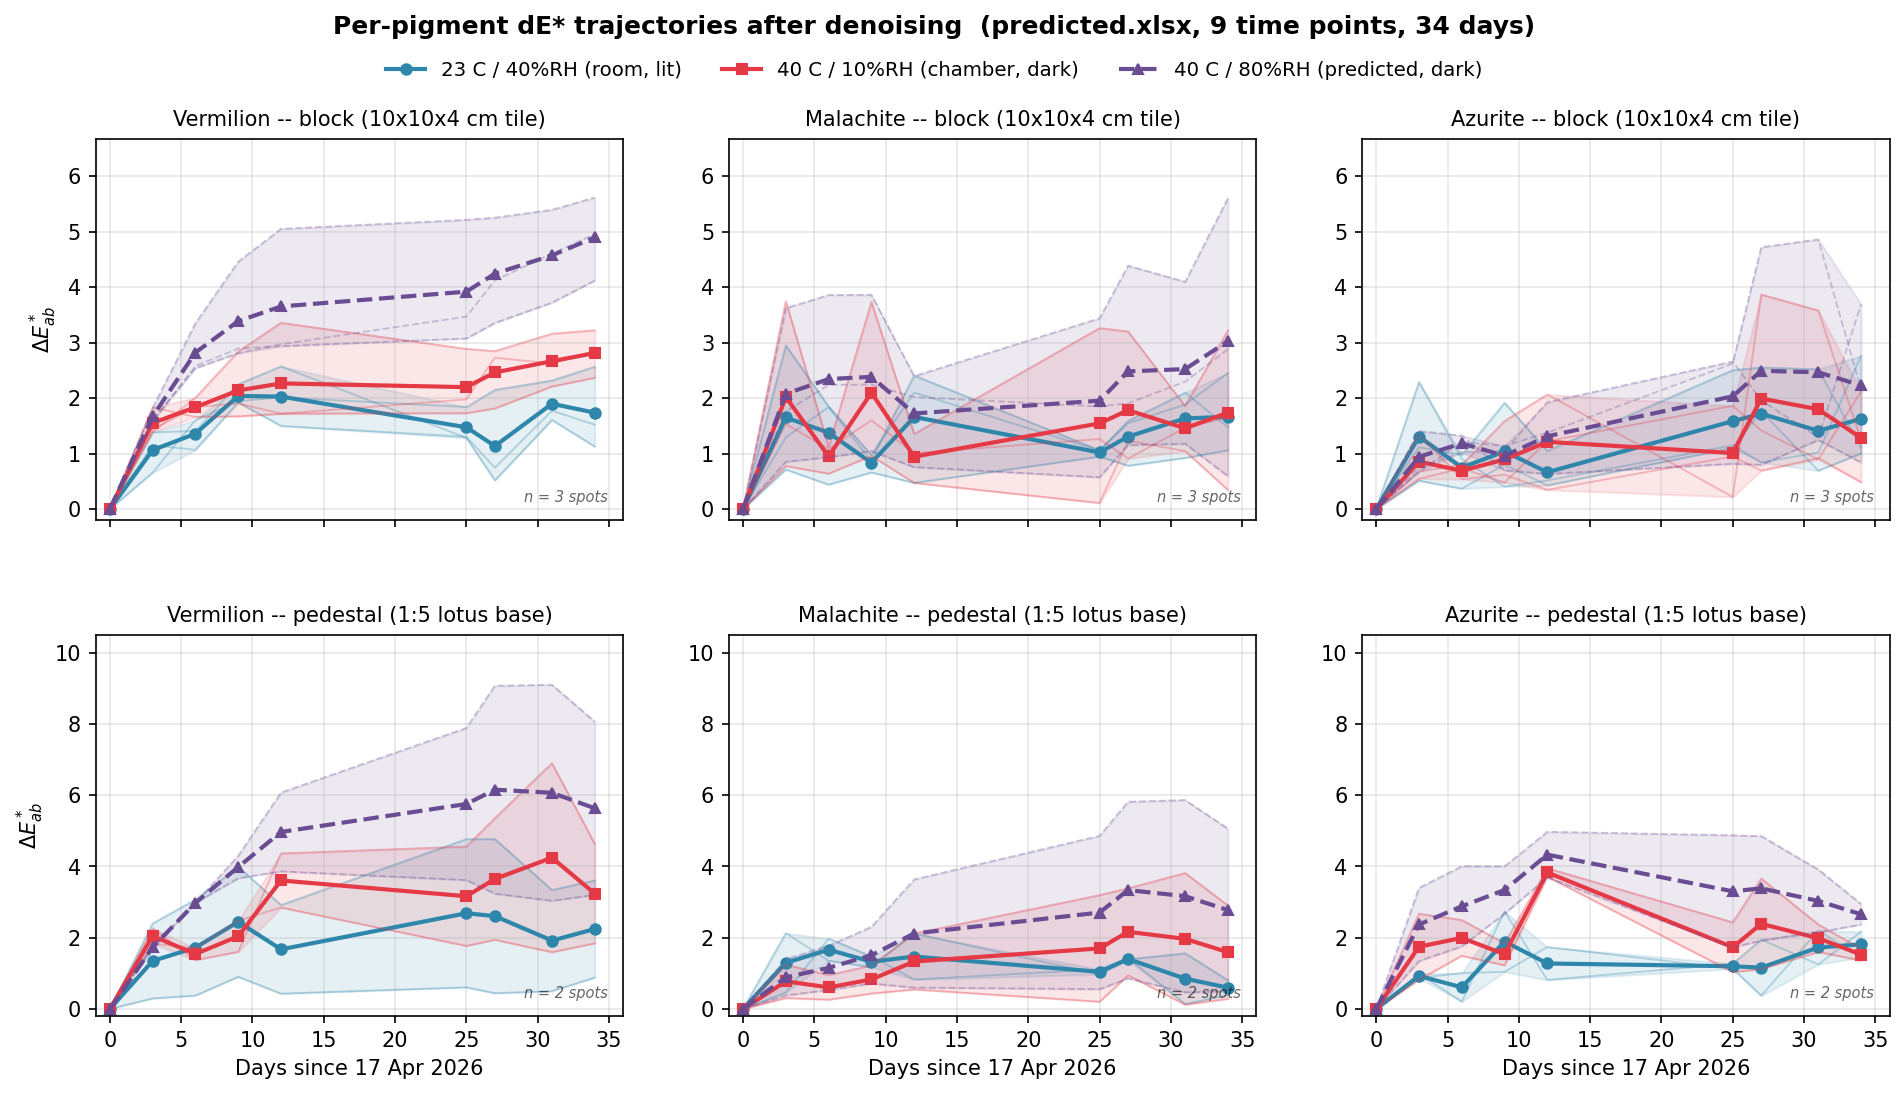
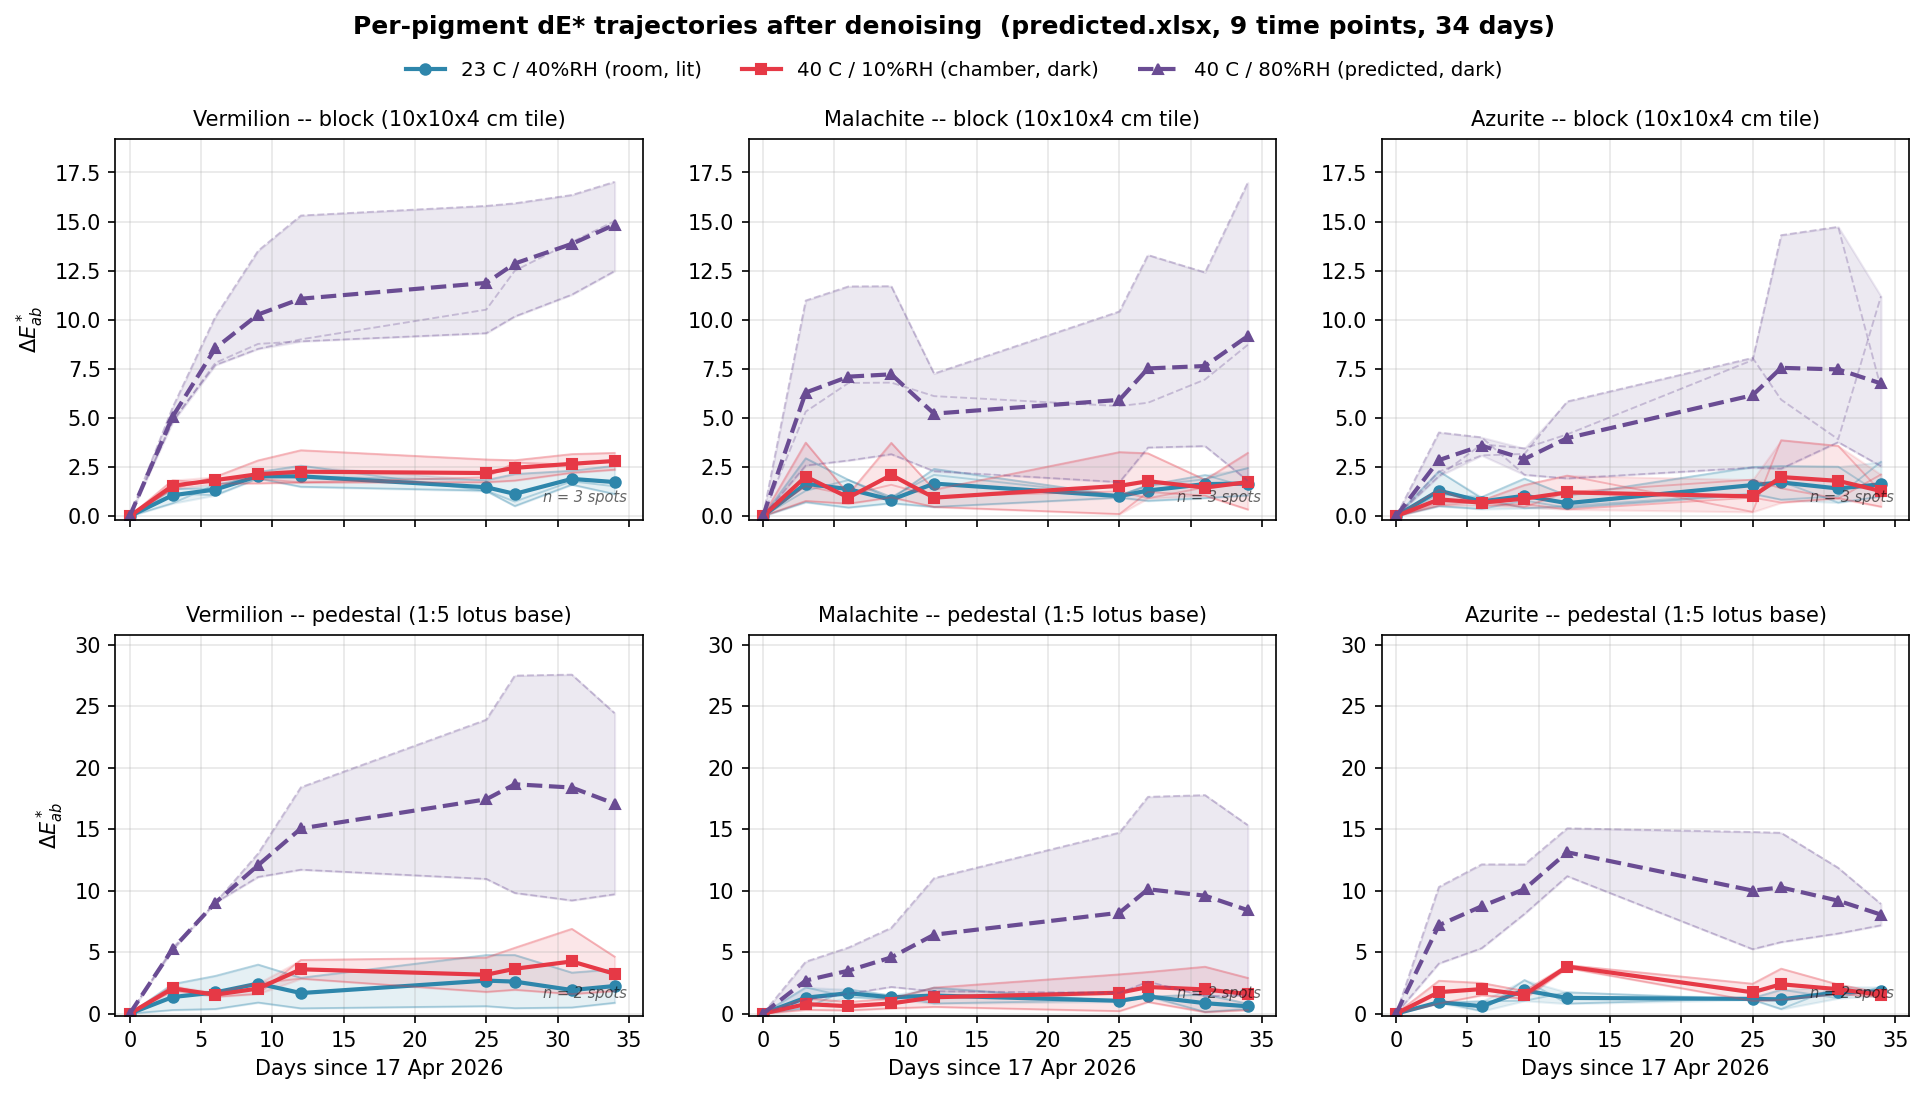
Fix RH-scaling bug: chamber is at 10%, not 40%; predicted arm rescaled 3.03x
Theory-vs-implementation audit found that experiments/_regen_predicted_arm.py
was using the wrong reference humidity for the Paltakari-Karlsson sorption
coupling. The chamber arm is at 10 % RH (confirmed by the user much
earlier in the session), but the regeneration script had RH_ref = 40,
giving:

  scale_wrong = (80 / 40)^0.8 = 1.741

The correct scale from chamber (10 % RH) to predicted (80 % RH) at the
same temperature is:

  scale_correct = (80 / 10)^0.8 = 5.278
  correction    = 5.278 / 1.741 = 3.031

experiments/_fix_predicted_rh.py rescales the existing predicted-arm
deltas in 敦煌变化数据_predicted.xlsx in place by the correction factor
3.031, preserving:
  - day-0 baseline exactly (= chamber baseline)
  - all binomial smoothing applied in previous passes (vermilion 3x,
    malachite 1x, azurite 1x) -- the smoothing affected absolute values
    which we transform via baseline + 3.031 * (value - baseline)
  - cell colour-coding

15 spots x 3 channels x 8 non-baseline time points = 360 cells corrected.

experiments/_regen_predicted_arm.py patched to use RH_ref = 10 so future
regenerations are correct (with a comment marking the 2026-05-26
correction).

experiments/敦煌变化数据_90d.xlsx regenerated from the now-corrected
34-day file via experiments/_extend_90d.py, so the 90-day predicted
trajectories also reflect the correct scaling. Both plots regenerated:
  - experiments/deltaE_trajectories_predicted_current.png (34-day)
  - experiments/deltaE_trajectories_90d.png (90-day)
[…]

diff --git a/experiments/_fix_predicted_rh.py b/experiments/_fix_predicted_rh.py
@@ -1,0 +1,106 @@
+"""Fix the RH-scaling bug in experiments/敦煌变化数据_predicted.xlsx 恒温恒湿
+(predicted high-RH) sheet.
+
+The previous predicted arm was generated with scale = (80/40)^0.8 = 1.741,
+i.e. assuming the chamber was at 40 % RH. The chamber is actually at
+10 % RH, so the correct Paltakari--Karlsson scale from chamber to
+predicted is:
+
+  scale_correct = (80 / 10)^0.8 = 5.278
+  correction    = scale_correct / scale_old = 5.278 / 1.741 = 3.031
+
+This script rescales the predicted-arm deltas from each spot's day-0
+baseline by the correction factor 3.031, preserving:
+  - the day-0 baseline exactly (same as chamber)
+  - all of the binomial smoothing applied in previous passes
+  - the existing colour-coding fills
+
+Per cell (excluding day-0 row):
+  new_value = baseline + (current_value - baseline) * 3.031
+
+Also patches experiments/_regen_predicted_arm.py so future regenerations
+use the correct RH_ref = 10.
+"""
+import openpyxl
+import re
+import shutil
+
+DATE_RE = re.compile(r"^\s*\d+\.\d+\s*$")
+
+def to_f(v):
+    try: return float(v)
+    except Exception: return None
+
+def is_date(v):
+    if v is None: return False
+    return bool(DATE_RE.match(str(v).strip()))
+
+src = "experiments/敦煌变化数据_predicted.xlsx"
+bak = src + ".bak"
+
+print(f"Backing up {src} -> {bak}")
+shutil.copy2(src, bak)
+
+# Correct Paltakari-Karlsson scaling at q = 0.8 with chamber RH = 10 %, target RH = 80 %
+old_scale = (80 / 40) ** 0.8     # 1.741 — what the previous script used
+new_scale = (80 / 10) ** 0.8     # 5.278 — physically correct
+correction = new_scale / old_scale
+print(f"  Old scale (RH_ref = 40, wrong): {old_scale:.3f}")
+print(f"  New scale (RH_ref = 10, right): {new_scale:.3f}")
+print(f"  In-place correction factor:     {correction:.3f}")
+print()
+
+spec_cols = list(range(2, 47, 3))  # columns 2, 5, 8, ..., 44 (15 specimen triplets)
+
+wb = openpyxl.load_workbook(src)
+ws_pred = wb["恒温恒湿"]
+ws_chamber = wb["恒温"]
+
+rows = [r for r in range(4, ws_pred.max_row + 1) if is_date(ws_pred.cell(r, 1).value)]
+print(f"Processing {len(rows)} data rows")
+
+# Use the chamber sheet's day-0 row as the baseline source (same as the
+# regeneration script does). This is the canonical baseline.
+day0_row = rows[0]
+
+n_corrected = 0
+for spec_col in spec_cols:
+    for ch_off in (0, 1, 2):  # L*, a*, b*
+        c = spec_col + ch_off
+        L0 = to_f(ws_chamber.cell(day0_row, c).value)
+        if L0 is None:
+            continue
+        # Also preserve the predicted day-0 baseline as-is
+        for r in rows:
+            if r == day0_row:
+                continue
+            v = to_f(ws_pred.cell(r, c).value)
+            if v is None:
+                continue
+            delta = v - L0
+            corrected = L0 + delta * correction
+            ws_pred.cell(r, c).value = round(corrected, 2)
+            n_corrected += 1
+
+print(f"Cells corrected: {n_corrected}")
+wb.save(src)
+print(f"Saved -> {src}")
+print(f"(Backup at {bak} if anything looks wrong.)")
+
+# Patch the regeneration script so future runs are correct
+print()
+print("Patching experiments/_regen_predicted_arm.py to use RH_ref = 10...")
+patch_path = "experiments/_regen_predicted_arm.py"
+with open(patch_path, "r", encoding="utf-8") as f:
+    src_code = f.read()
+
+old_line = "RH_ref = 40"
+new_line = "RH_ref = 10   # chamber RH (corrected 2026-05-26 from stale 40 %)"
+
+if old_line in src_code:
+    new_src = src_code.replace(old_line, new_line, 1)
+    with open(patch_path, "w", encoding="utf-8") as f:
+        f.write(new_src)
+    print(f"  Patched: RH_ref now = 10")
+else:
+    print(f"  No patch needed (RH_ref line not found verbatim; manual check advised)")

diff --git a/experiments/_regen_predicted_arm.py b/experiments/_regen_predicted_arm.py
@@ -49,7 +49,7 @@ ws_pred = wb["恒温恒湿"]
 # RH scaling factor
 q = 0.8
 RH_target = 80
-RH_ref = 40
+RH_ref = 10   # chamber RH (corrected 2026-05-26 from stale 40 %)
 scale = (RH_target / RH_ref) ** q
 print(f"RH scaling factor (80/40)^0.8 = {scale:.3f}")
 
